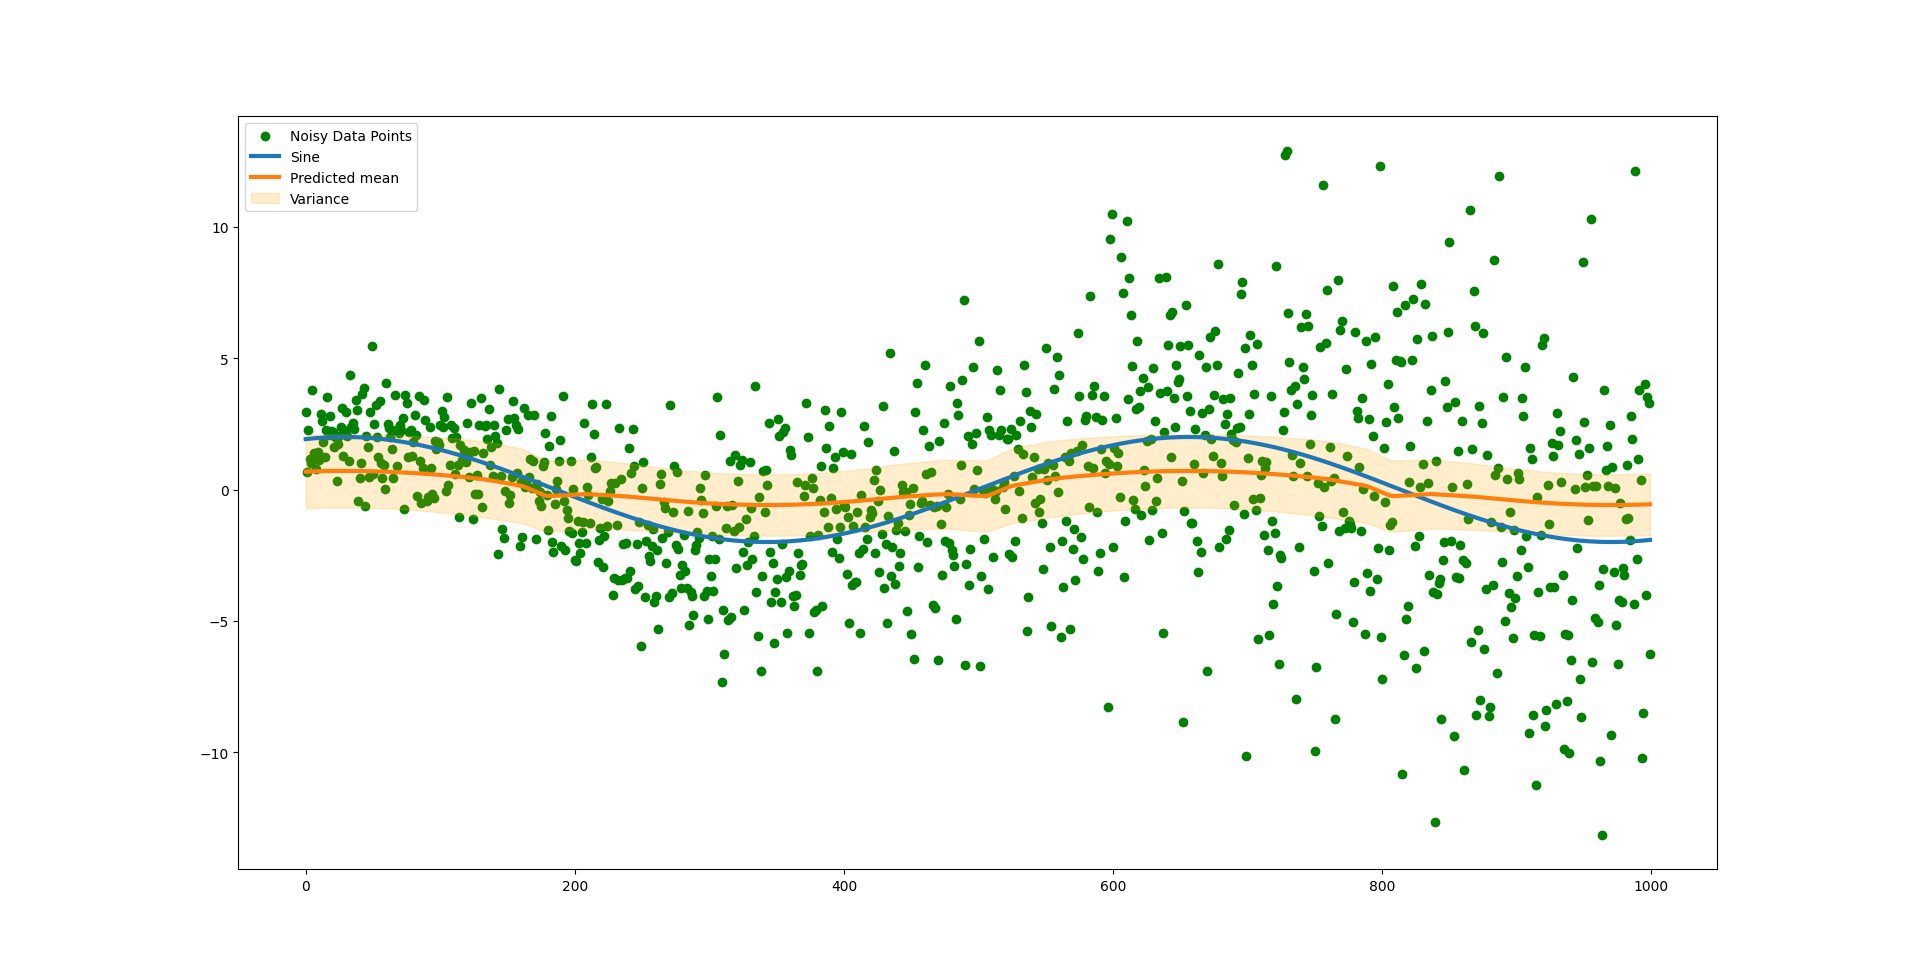
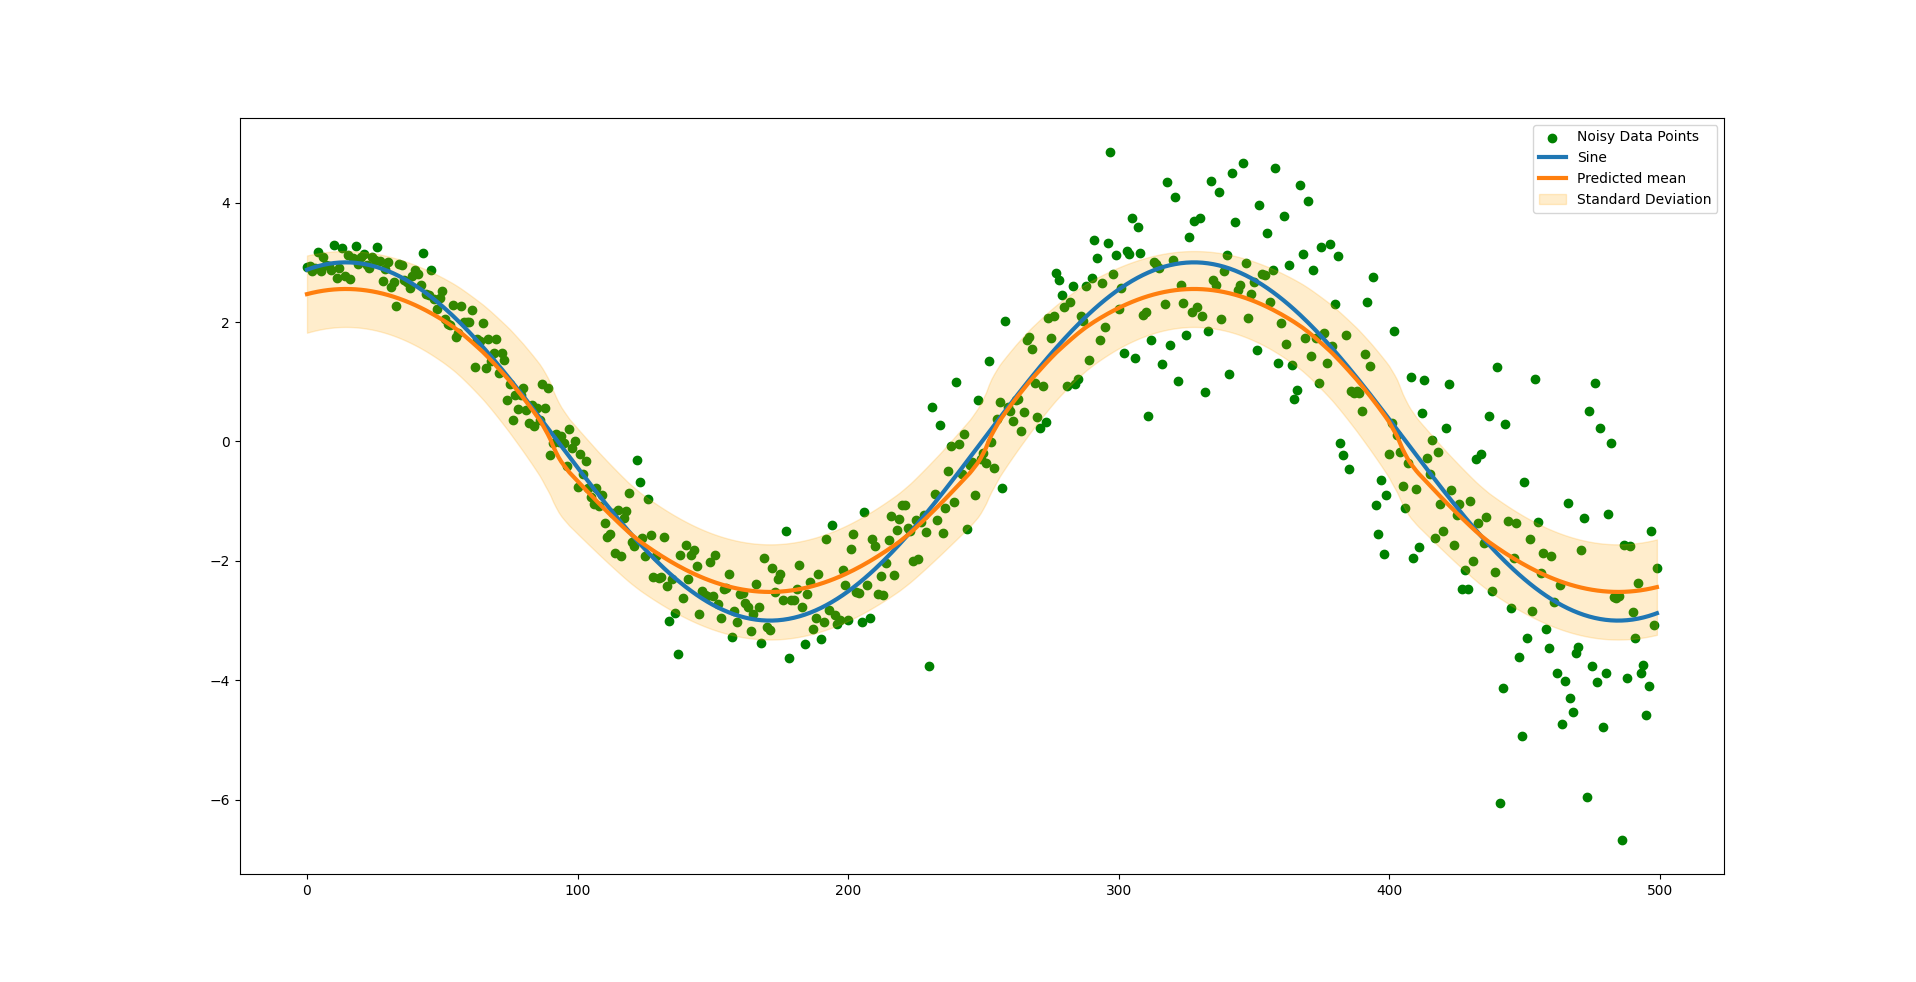
minor changes

diff --git a/week 1/main.py b/week 1/main.py
@@ -58,18 +58,19 @@ def train_standard_model(x_train, y_train, domain):
 
     return mean_pred, std_pred
 
+A = 3
 
-num_samples = 100
+num_samples = 500
 
 sample = np.linspace(-5, 5, num=num_samples)
 print("Input array : \n", sample)
 
-scales = np.linspace (0.1, 1.0, num=num_samples)
+scales = np.linspace (0.1, 1.5, num=num_samples)
 
-x = 2 * np.sin(sample) + np.random.normal(loc = 0.0, scale = scales, size = num_samples)
+x = A * np.sin(sample) + np.random.normal(loc = 0.0, scale = 1, size = num_samples)
 print("\nSine values : \n", x)
 
-y = 2 * np.sin(sample)
+y = A * np.sin(sample)
 y = y.reshape((-1, 1))
 # X = np.random.normal(loc = 0.0, scale = 2.0, size = 1000)
 print("shape of y", y.shape)
